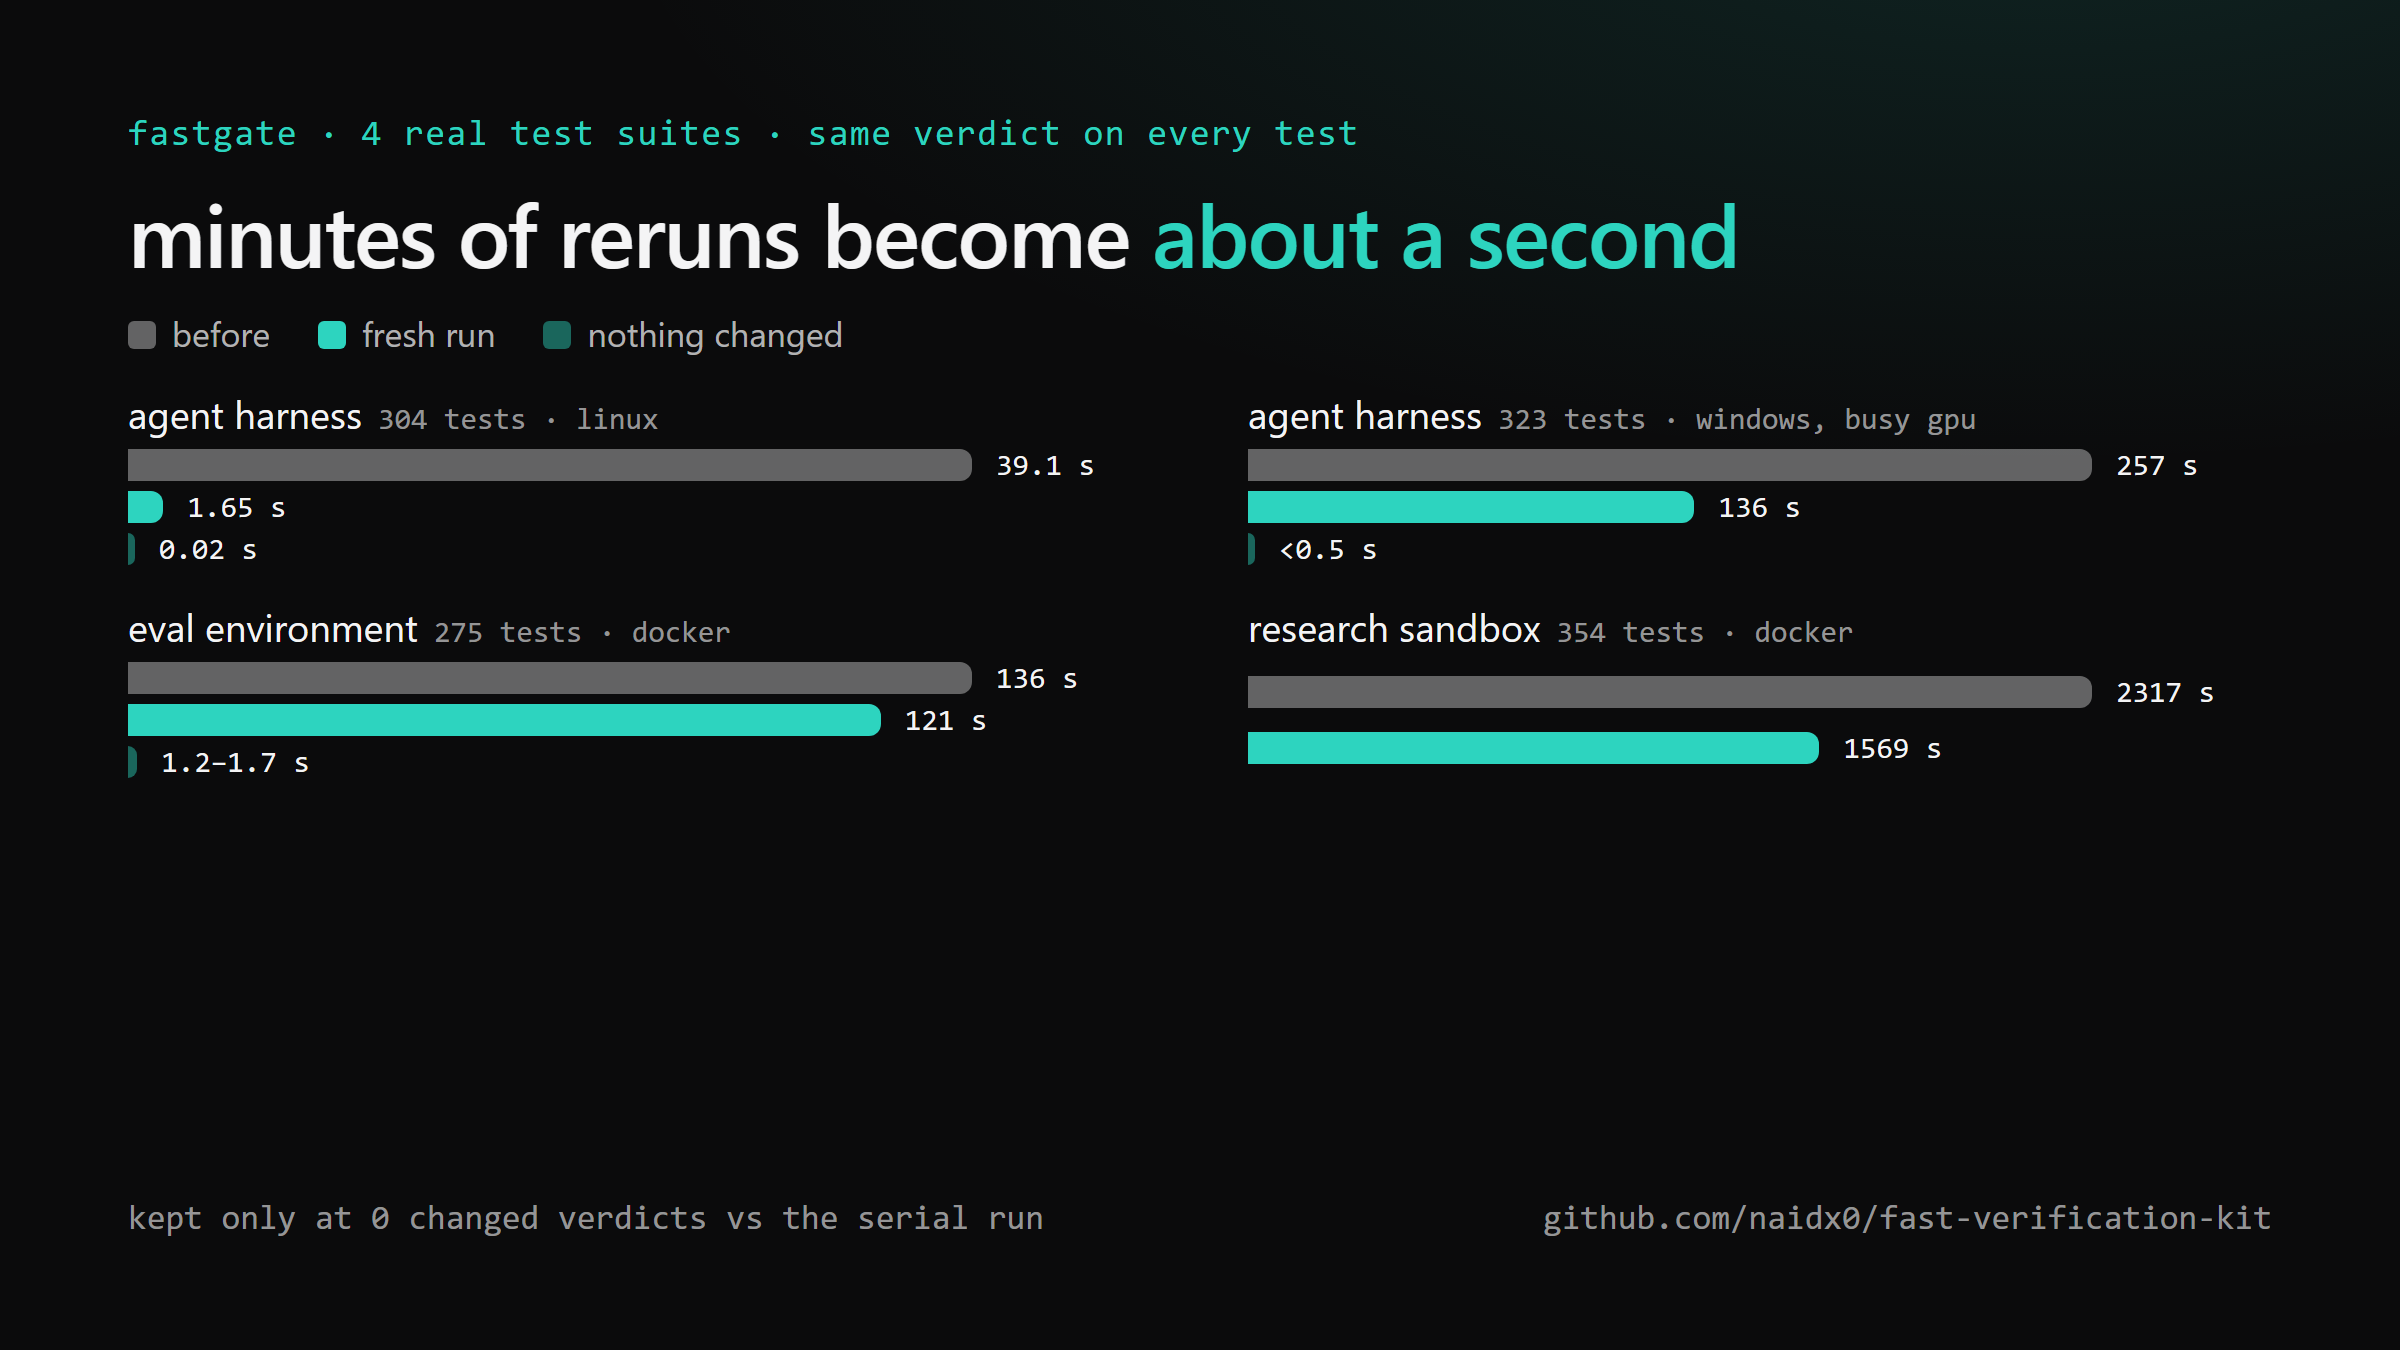
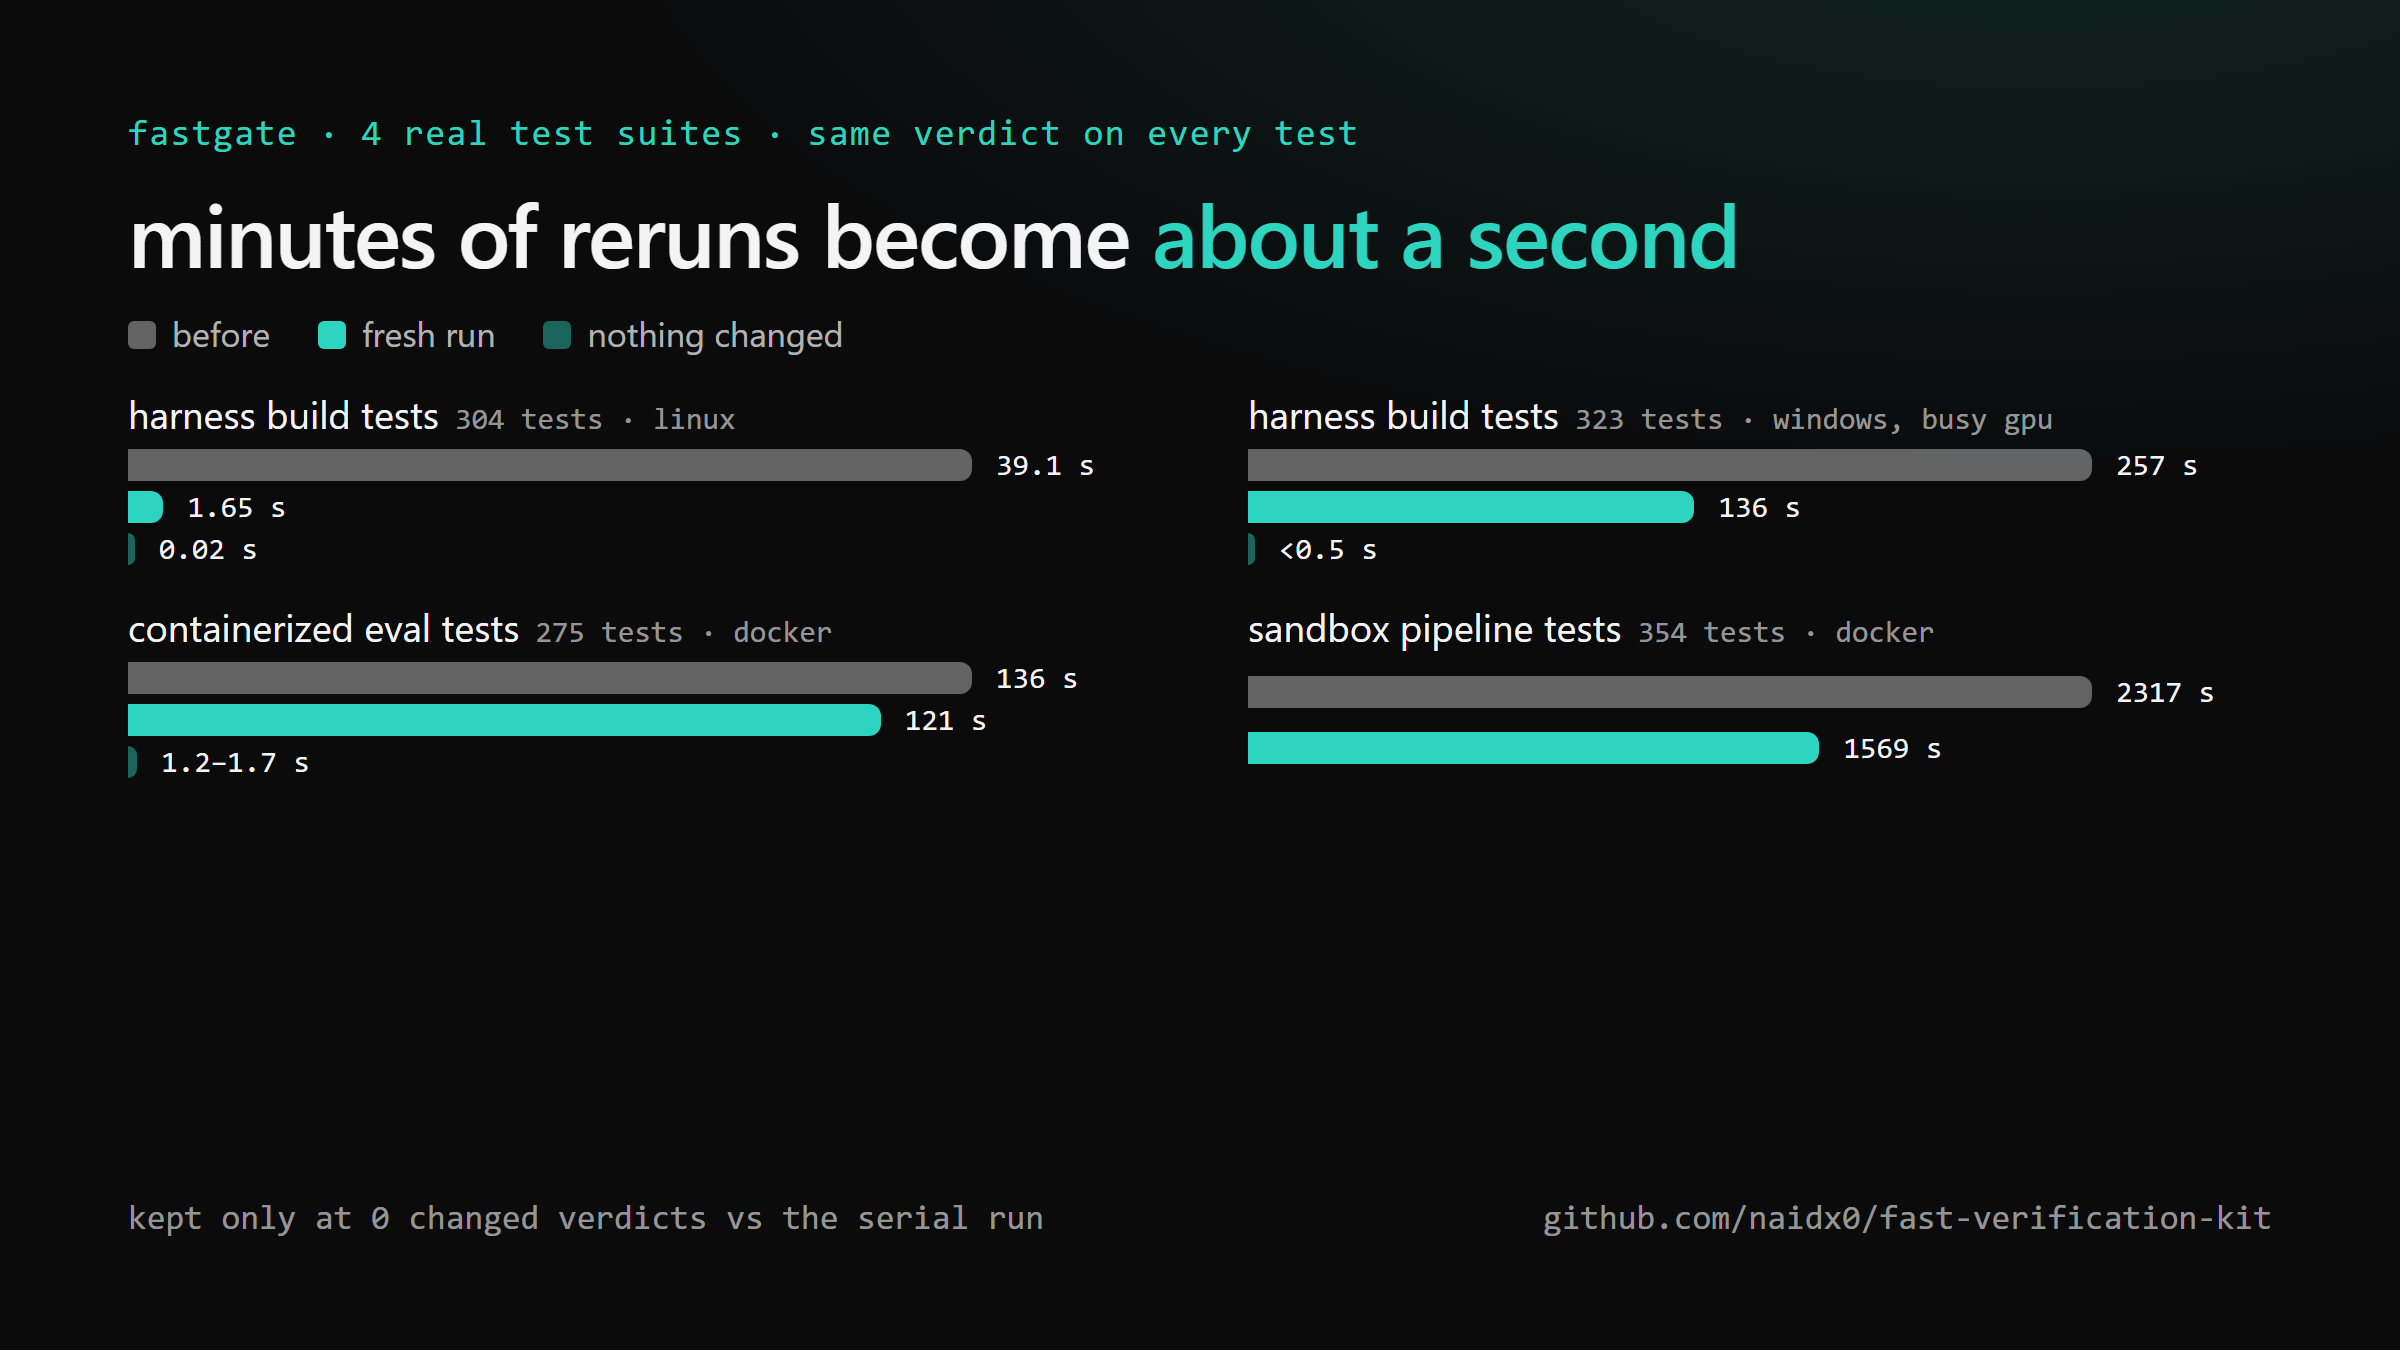
README: name the suites by workflow, not by project

diff --git a/README.md b/README.md
@@ -47,10 +47,10 @@ xychart-beta
 flowchart LR
     subgraph before [Before: every run reruns everything]
         direction TB
-        b1[304 tests: 39.1 s]
-        b2[323 tests, Windows: 257 s]
-        b3[275 tests, Docker: 136 s]
-        b4[354 tests, Docker: 2317 s]
+        b1[Harness build tests, 304: 39.1 s]
+        b2[Harness build tests, Windows, 323: 257 s]
+        b3[Containerized eval tests, 275: 136 s]
+        b4[Sandbox pipeline tests, 354: 2317 s]
     end
     subgraph after [After fastgate: same verdict on every test]
         direction TB
@@ -101,10 +101,10 @@ flowchart TD
 
 | Suite | Tests | Before | After | Verdicts changed |
 |---|---|---|---|---|
-| ML harness small-model, 4-core Linux | 304 | 39.1 s serial | 1.65 s fresh, 0.02 s unchanged | 0 |
-| ML harness small-model, Windows | 323 | 212 to 270 s | 120 to 148 s fresh | 0 |
-| Touchstone gate, Windows, Docker | 354 | 2317 s | 1569 s fresh | 0 |
-| Executed Pivots, Windows, Docker | 275 | 135.6 s median | 120.9 s fresh, 1.2 to 1.7 s unchanged | 0 |
+| Harness build tests, 4-core Linux | 304 | 39.1 s serial | 1.65 s fresh, 0.02 s unchanged | 0 |
+| Harness build tests, Windows | 323 | 212 to 270 s | 120 to 148 s fresh | 0 |
+| Sandbox pipeline tests, Windows, Docker | 354 | 2317 s | 1569 s fresh | 0 |
+| Containerized eval tests, Windows, Docker | 275 | 135.6 s median | 120.9 s fresh, 1.2 to 1.7 s unchanged | 0 |
 
 The biggest win on the first suite was not parallelism. Profiling showed half the time
 was test servers idling (a 0.5 s shutdown poll, a 2 ms sleep per streamed chunk).
